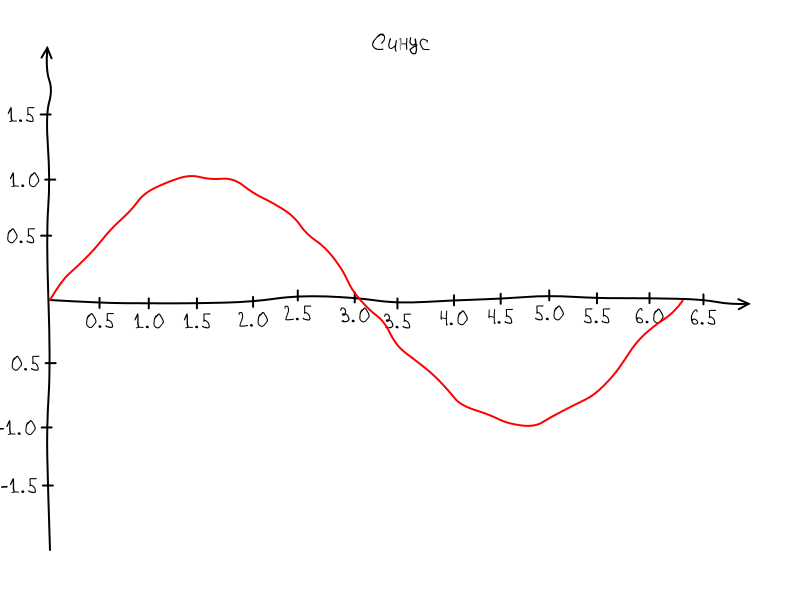
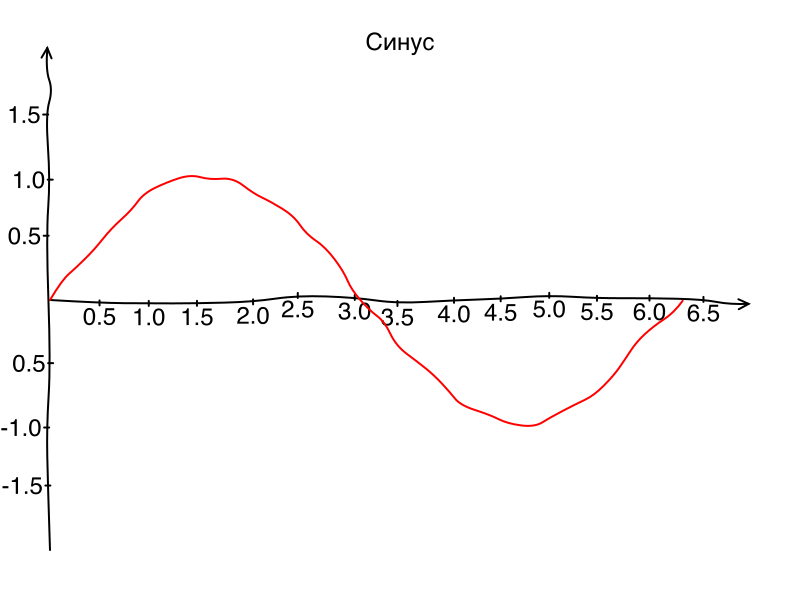
Update README

diff --git a/examples/readme-axis.js b/examples/readme-axis.js
@@ -8,6 +8,7 @@ var clumsy = new Clumsy(canvas);
 clumsy.font('24px VoronovFont');
 clumsy.padding(50);
 clumsy.range(0, 7, -2, 2);
+clumsy.clean('white');
 clumsy.lineWidth(2);
 
 clumsy.axis('x', 0, 7, 0.5);

diff --git a/examples/readme-sine.js b/examples/readme-sine.js
@@ -7,6 +7,7 @@ var clumsy = new Clumsy(canvas);
 
 clumsy.padding(50);
 clumsy.range(0, 7, -1.5, 1.5);
+clumsy.clean('white');
 
 
 var sine = clumsy.tabulate(0, 2*Math.PI, 0.01, Math.sin);

diff --git a/README.md b/README.md
@@ -6,15 +6,19 @@
   [![CI][ci-image]][ci-url]
 
 
-Clumsy.js is a library for creating math figures on HTMLCanvas in XKCD style.
-
-This library can be used with Node.js libraries `canvas` and `gifencoder`:
+Draw math figures on a canvas in an XKCD style. The same drawing script runs in a browser and in Node.js.
 
 ```shell
-$ npm install canvas gifencoder
+npm install clumsy
 ```
 
-![readme-intro](https://raw.github.com/kreshikhin/clumsy/master/examples/readme-intro.png)
+Rendering to PNG or GIF in Node.js also needs [`canvas`](https://www.npmjs.com/package/canvas) and [`gifencoder`](https://www.npmjs.com/package/gifencoder):
+
+```shell
+npm install canvas gifencoder
+```
+
+![Sine and cosine drawn in an XKCD style](https://raw.githubusercontent.com/kreshikhin/clumsy/master/examples/readme-intro.png)
 
 ## Contents
 
@@ -80,6 +84,7 @@ var clumsy = new Clumsy(canvas);
 
 clumsy.padding(50);
 clumsy.range(0, 2*Math.PI, -1.5, 1.5);
+clumsy.clean('white');
 clumsy.color('red');
 clumsy.lineWidth(2);
 
@@ -91,7 +96,7 @@ helpers.saveAsPng(clumsy); // save as png of same name
 
 The result:
 
-![sine](https://raw.github.com/kreshikhin/clumsy/master/examples/readme-sine.png)
+![A hand-drawn sine wave](https://raw.githubusercontent.com/kreshikhin/clumsy/master/examples/readme-sine.png)
 
 
 <a name="axis-and-title" />
@@ -108,6 +113,7 @@ var clumsy = new Clumsy(canvas);
 clumsy.font('24px VoronovFont');
 clumsy.padding(50);
 clumsy.range(0, 7, -2, 2);
+clumsy.clean('white');
 clumsy.lineWidth(2);
 
 clumsy.axis('x', 0, 7, 0.5);
@@ -125,7 +131,7 @@ helpers.saveAsPng(clumsy);
 
 The result:
 
-![axis](https://raw.github.com/kreshikhin/clumsy/master/examples/readme-axis.png)
+![A sine wave with hand-drawn axes and a title](https://raw.githubusercontent.com/kreshikhin/clumsy/master/examples/readme-axis.png)
 
 
 <a name="animation" />
@@ -236,7 +242,7 @@ encoder.finish();
 
 The result:
 
-![spiral](https://raw.github.com/kreshikhin/clumsy/master/examples/spiral.gif)
+![An animated hand-drawn spiral](https://raw.githubusercontent.com/kreshikhin/clumsy/master/examples/spiral.gif)
 
 
 ## API
